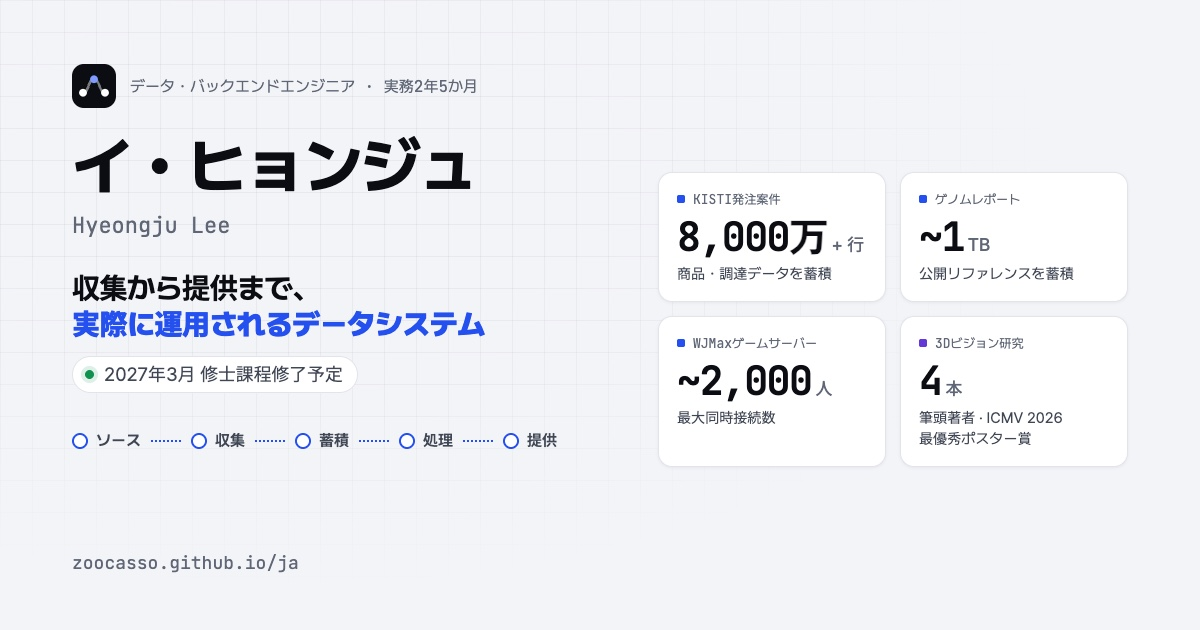
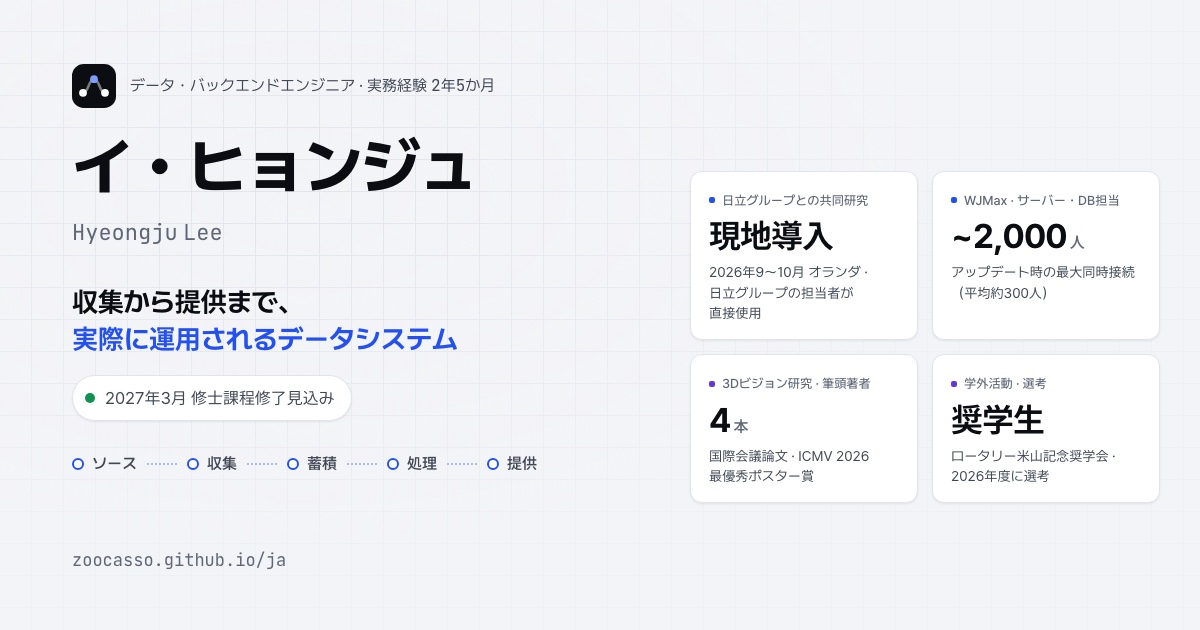
Share images match the current home: outcome cards, fixed label spacing, ja 修了見込み; image URL carries a content hash so previews refresh

diff --git a/build.py b/build.py
@@ -141,6 +141,10 @@ def layout(lang, meta, body, path, alts_by_lang, v):
     nav = meta.get("nav", "")
     is_home = bool(meta.get("home"))
     og = meta.get("image", f"/img/og-{lang}.jpg")
+    # a content hash in the URL so chat apps and LinkedIn fetch a new preview when the image changes
+    og_file = ROOT / "src" / og.lstrip("/")
+    if og_file.exists():
+        og += "?v=" + hashlib.sha1(og_file.read_bytes()).hexdigest()[:8]
     home = PREFIX[lang] + "/"
     alts = ""
     if len(alts_by_lang) > 1:
@@ -382,7 +386,7 @@ def check():
             if " alt=" not in img:
                 errors.append(f"{name}: image without alt: {img[:80]}")
         for og in re.findall(r'property="og:image" content="' + re.escape(BASE) + r'(/[^"]+)"', t):
-            if not (DIST / og.lstrip("/")).exists():
+            if not (DIST / og.split("?")[0].lstrip("/")).exists():
                 errors.append(f"{name}: missing share image {og}")
         for link in ref.findall(t):
             target = DIST / link.lstrip("/")
